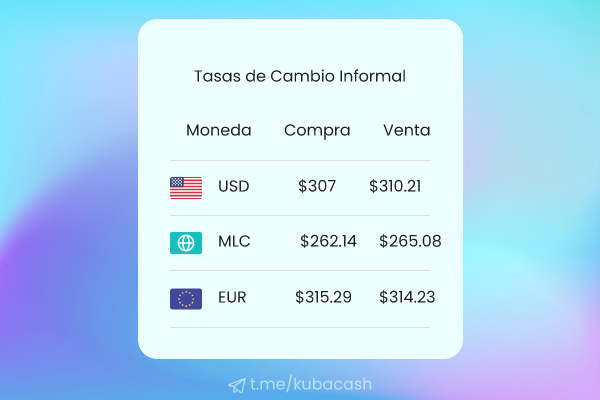
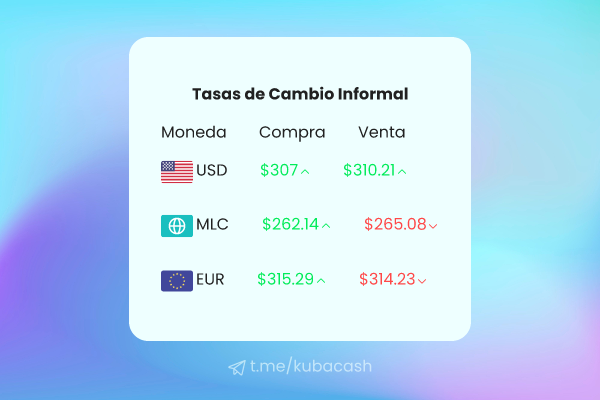
improve: Generated Images

diff --git a/src/getImages.tsx b/src/getImages.tsx
@@ -2,17 +2,18 @@ import { Resvg } from "@resvg/resvg-js";
 import fs from "fs/promises";
 import satori from "satori";
 import { CurrencyImage } from "./components/CurrencyImage";
-import { getTodayData } from "./getData";
+import { getTodayData, getYesterdayData } from "./getData";
 
 const getImages = async () => {
   const data = await getTodayData();
+  const yesterday = await getYesterdayData();
   const { rates } = data;
 
   const poppinsRegularData = await fs.readFile(
     "./src/assets/fonts/Poppins-Regular.ttf"
   );
   const poppinsBoldData = await fs.readFile(
-    "./src/assets/fonts/Poppins-Regular.ttf"
+    "./src/assets/fonts/Poppins-Bold.ttf"
   );
 
   const svg = await satori(
@@ -64,43 +65,105 @@ const getImages = async () => {
             Tasas de Cambio Informal
           </p>
 
-          <div
-            style={{
-              display: "flex",
-              gap: "2rem",
-              borderBottom: "1px solid #ddd",
-            }}
+          <table
+            style={{ width: "100%", display: "flex", flexDirection: "column" }}
           >
-            <p style={{ marginLeft: "1rem" }}>Moneda</p>
-            <p>Compra</p>
-            <p>Venta</p>
-          </div>
+            <thead style={{ display: "flex", gap: "2rem" }}>
+              <tr style={{ display: "flex", gap: "2rem" }}>
+                <th>Moneda</th>
+                <th>Compra</th>
+                <th>Venta</th>
+              </tr>
+            </thead>
 
-          {Object.entries(rates)
-            .filter(([currency]) => currency !== "CUP")
-            .map(([currency, rate]) => (
-              <div
-                key={currency}
-                style={{
-                  display: "flex",
-                  alignItems: "center",
-                  gap: "2rem",
-                  borderBottom: "1px solid #ddd",
-                  width: "260px",
-                }}
-              >
-                <div style={{ display: "flex", alignItems: "center" }}>
-                  <CurrencyImage currency={currency}></CurrencyImage>
+            <tbody style={{ display: "flex", flexDirection: "column" }}>
+              {Object.entries(rates)
+                .filter(([currency]) => currency !== "CUP")
+                .map(([currency, rate]) => (
+                  <tr style={{ display: "flex", gap: "2rem" }} key={currency}>
+                    <td>
+                      <div style={{ display: "flex", alignItems: "center" }}>
+                        <CurrencyImage currency={currency}></CurrencyImage>
 
-                  <p style={{ marginLeft: "1rem" }}>{currency}</p>
-                </div>
-
-                <p style={{ marginLeft: "1rem", textAlign: "center" }}>
-                  ${rate.buy}
-                </p>
-                <p style={{ textAlign: "center" }}>${rate.sell}</p>
-              </div>
-            ))}
+                        <p style={{ marginLeft: "0.2rem" }}>{currency}</p>
+                      </div>
+                    </td>
+                    <td>
+                      <div style={{ display: "flex", alignItems: "center" }}>
+                        <p
+                          style={{
+                            textAlign: "center",
+                            color:
+                              yesterday.rates[currency].buy < rate.buy
+                                ? "#02ec5a"
+                                : "#ff4848",
+                          }}
+                        >
+                          ${rate.buy}
+                        </p>
+                        {yesterday.rates[currency].buy < rate.buy ? (
+                          <svg
+                            xmlns="http://www.w3.org/2000/svg"
+                            width="12"
+                            height="12"
+                            fill="#02ec5a"
+                            viewBox="0 0 256 256"
+                          >
+                            <path d="M213.66,165.66a8,8,0,0,1-11.32,0L128,91.31,53.66,165.66a8,8,0,0,1-11.32-11.32l80-80a8,8,0,0,1,11.32,0l80,80A8,8,0,0,1,213.66,165.66Z"></path>
+                          </svg>
+                        ) : (
+                          <svg
+                            xmlns="http://www.w3.org/2000/svg"
+                            width="12"
+                            height="12"
+                            fill="#ff4848"
+                            viewBox="0 0 256 256"
+                          >
+                            <path d="M213.66,101.66l-80,80a8,8,0,0,1-11.32,0l-80-80A8,8,0,0,1,53.66,90.34L128,164.69l74.34-74.35a8,8,0,0,1,11.32,11.32Z"></path>
+                          </svg>
+                        )}
+                      </div>
+                    </td>
+                    <td>
+                      <div style={{ display: "flex", alignItems: "center" }}>
+                        <p
+                          style={{
+                            textAlign: "center",
+                            color:
+                              yesterday.rates[currency].sell < rate.sell
+                                ? "#02ec5a"
+                                : "#ff4848",
+                          }}
+                        >
+                          ${rate.sell}
+                        </p>
+                        {yesterday.rates[currency].sell < rate.sell ? (
+                          <svg
+                            xmlns="http://www.w3.org/2000/svg"
+                            width="12"
+                            height="12"
+                            fill="#02ec5a"
+                            viewBox="0 0 256 256"
+                          >
+                            <path d="M213.66,165.66a8,8,0,0,1-11.32,0L128,91.31,53.66,165.66a8,8,0,0,1-11.32-11.32l80-80a8,8,0,0,1,11.32,0l80,80A8,8,0,0,1,213.66,165.66Z"></path>
+                          </svg>
+                        ) : (
+                          <svg
+                            xmlns="http://www.w3.org/2000/svg"
+                            width="12"
+                            height="12"
+                            fill="#ff4848"
+                            viewBox="0 0 256 256"
+                          >
+                            <path d="M213.66,101.66l-80,80a8,8,0,0,1-11.32,0l-80-80A8,8,0,0,1,53.66,90.34L128,164.69l74.34-74.35a8,8,0,0,1,11.32,11.32Z"></path>
+                          </svg>
+                        )}
+                      </div>
+                    </td>
+                  </tr>
+                ))}
+            </tbody>
+          </table>
         </div>
 
         <div

diff --git a/src/getData.ts b/src/getData.ts
@@ -7,5 +7,5 @@ export const getTodayData = async () => {
 }
 
 export const getYesterdayData = async () => {
-    return (await axios.get(`https://yossthedev.me/kubacash-service/data/${dayjs().format("YYYY-MM-DD")}/informal.json`)).data as ExchangeRates
+    return (await axios.get(`https://yossthedev.me/kubacash-service/data/${dayjs().subtract(1, "day").format("YYYY-MM-DD")}/informal.json`)).data as ExchangeRates
 }
